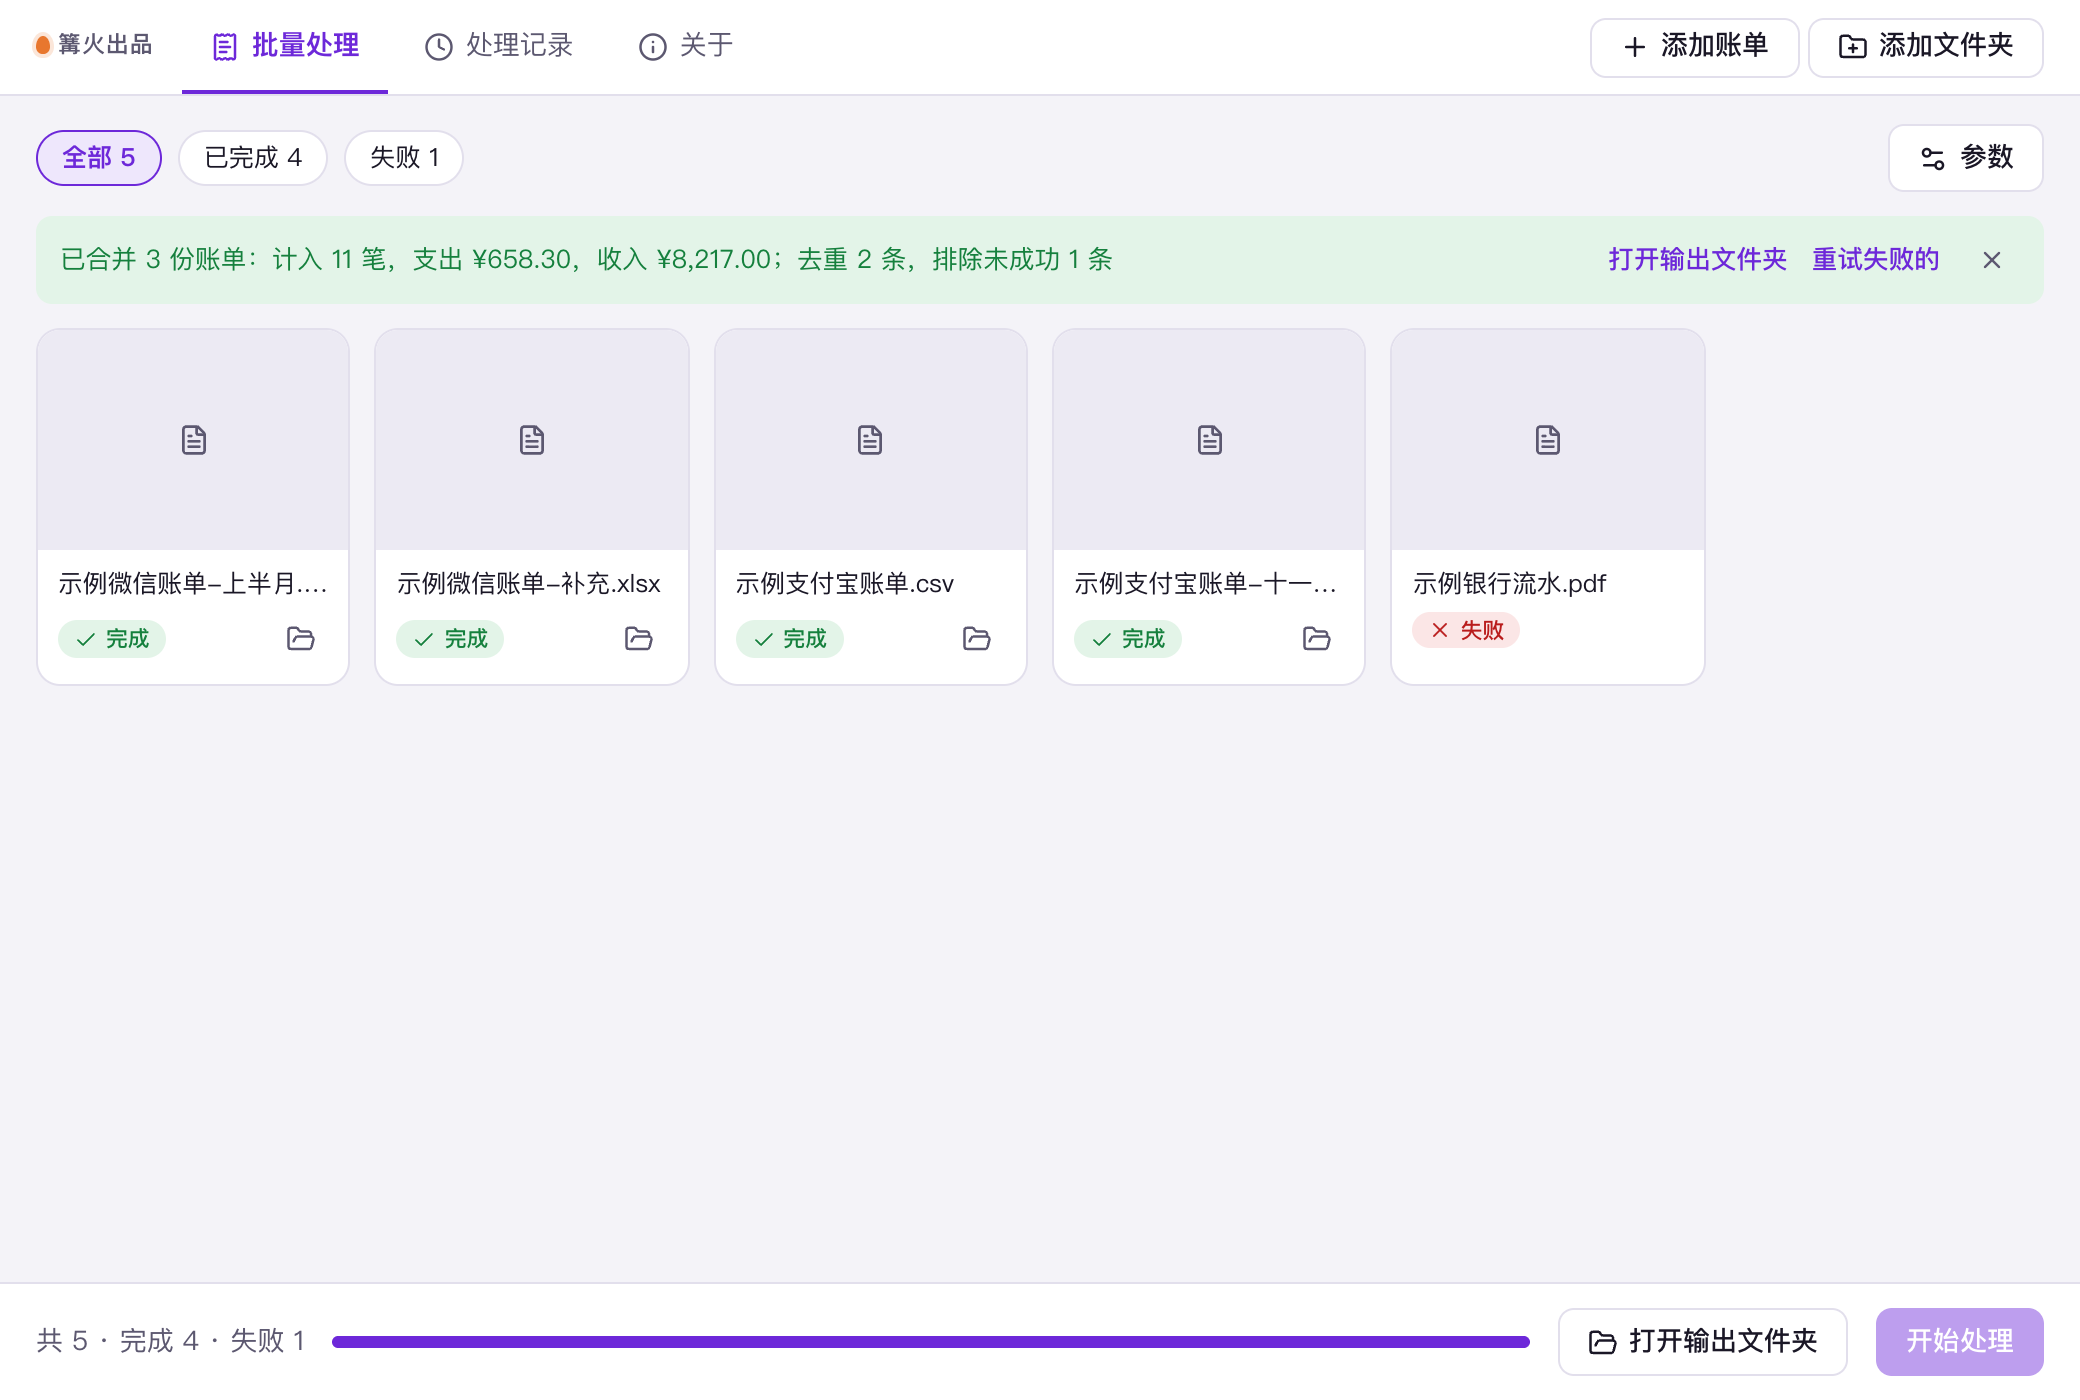
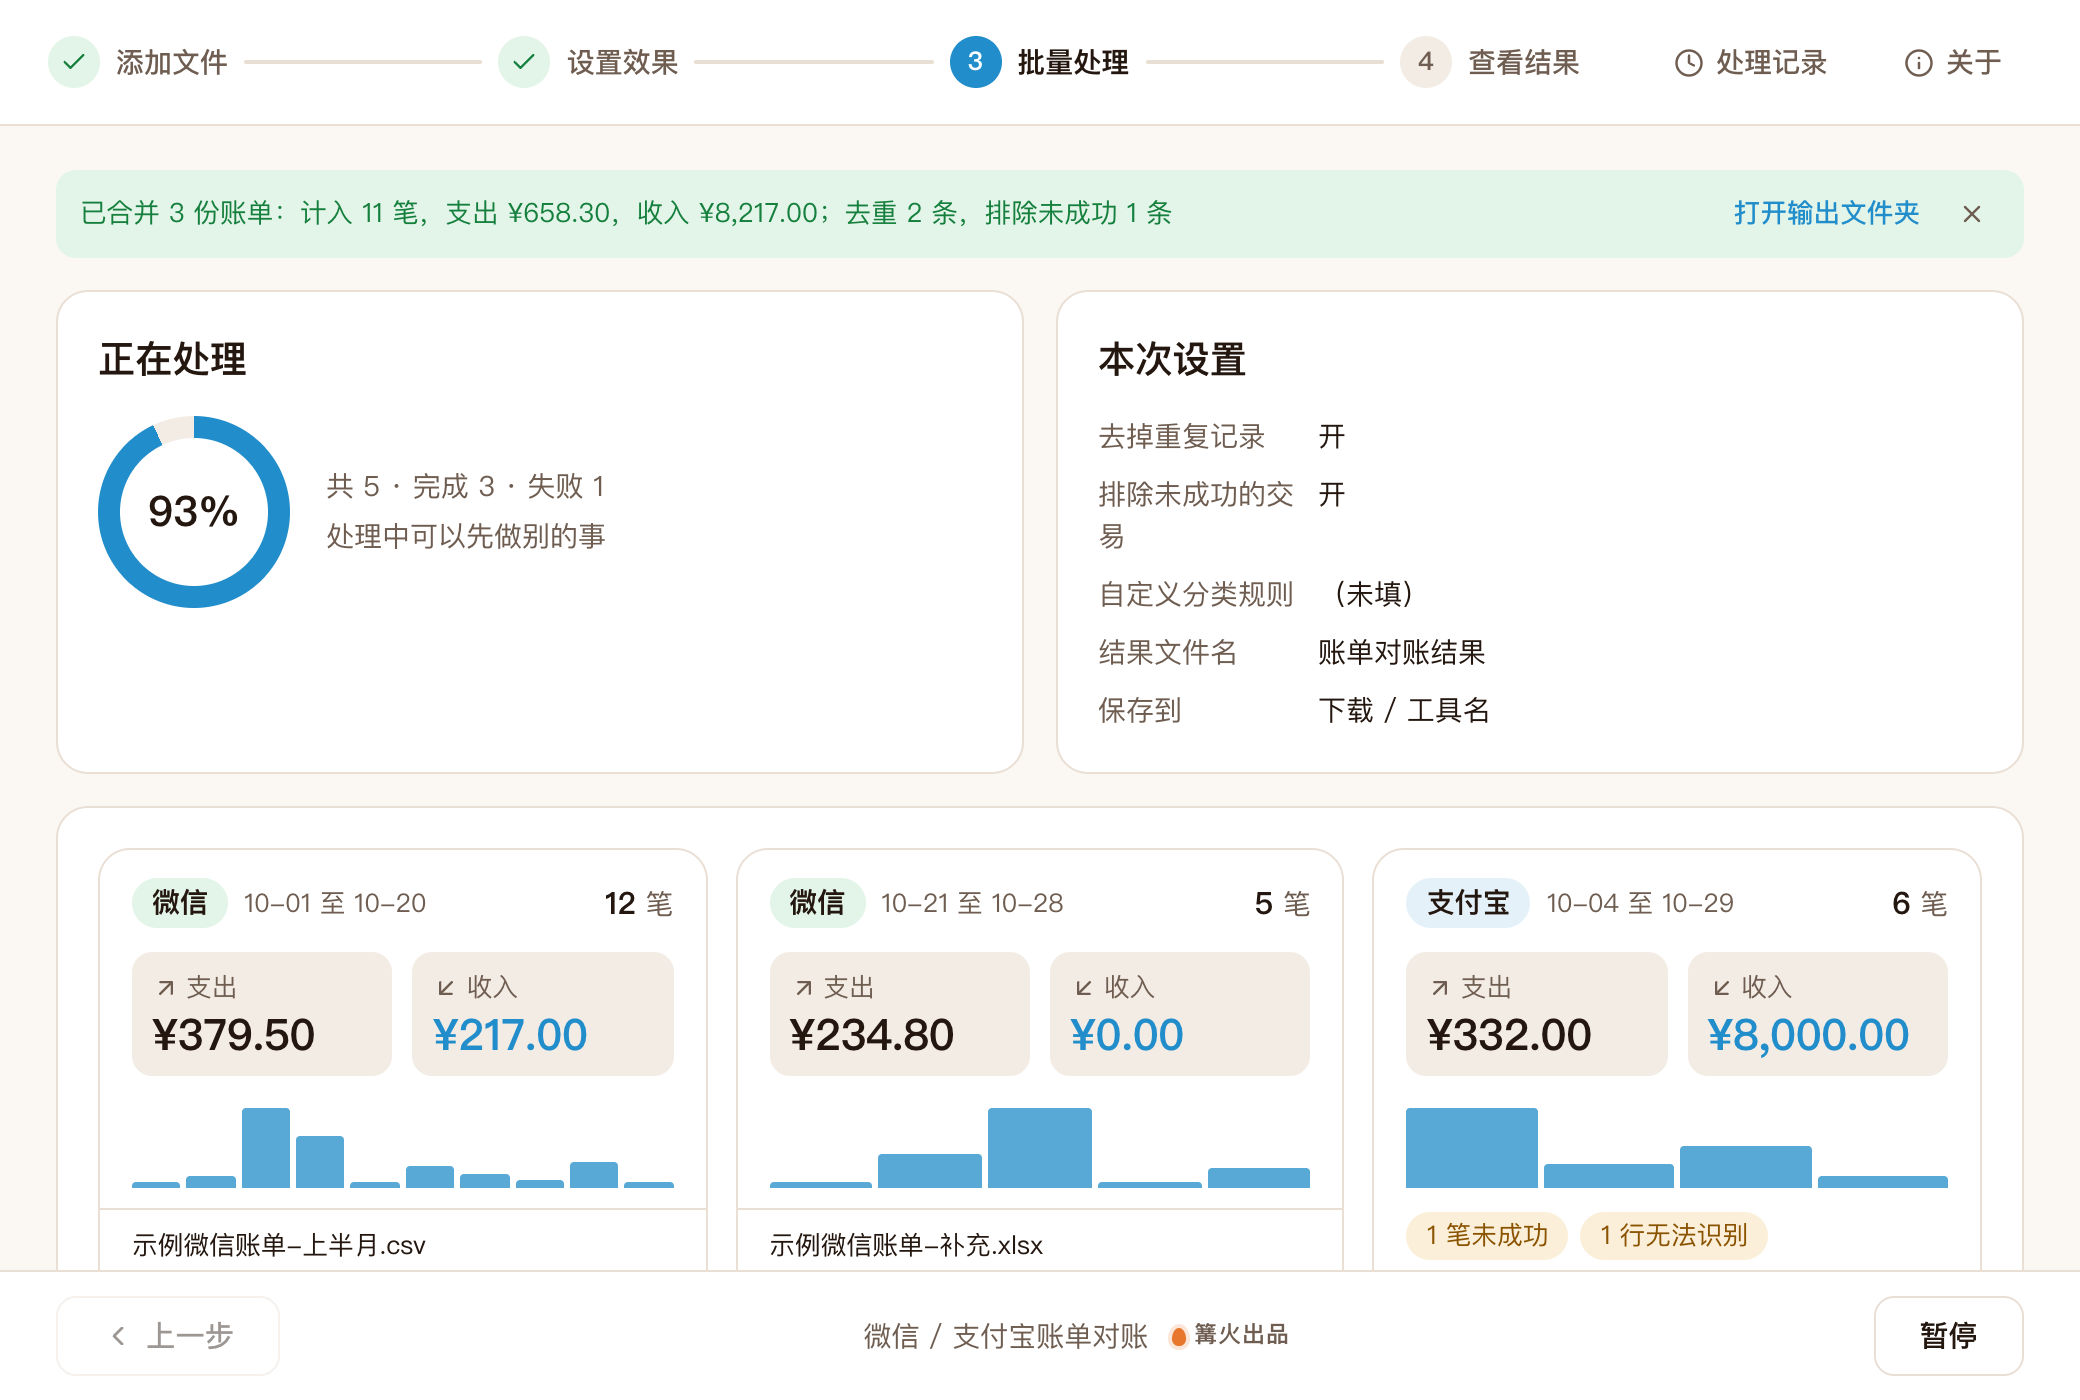
打磨 0.2.0：向导大卡片布局，账单支出收入大字加按日柱状图，空状态示意图，界面全中文

diff --git a/src/tool/tool.css b/src/tool/tool.css
@@ -1,0 +1,52 @@
+/* 微信 / 支付宝账单对账：布局 c（向导步骤 + 大卡片）。只用 kit.css 的变量，类名以 bl- 开头。
+   焦点：每份账单的支出、收入大字，以及按日支出柱状图。 */
+
+/* ---- 空状态 ---- */
+.bl-empty { display: flex; flex-direction: column; align-items: center; gap: 10px; padding: 8px 4px 4px; text-align: center; }
+.bl-empty > svg { width: 100%; max-width: 640px; height: auto; }
+.bl-card { fill: var(--surface); stroke: var(--line-strong); stroke-width: 1.4; }
+.bl-card.hot { stroke: var(--primary); }
+.bl-top.wx { fill: var(--ok-soft); }
+.bl-top.ali, .bl-top.hot { fill: var(--primary-soft); }
+.bl-tt { font-size: 11px; font-weight: 700; fill: var(--ink); font-family: var(--font); }
+.bl-ln { fill: var(--line-strong); opacity: .8; }
+.bl-arrow { fill: none; stroke: var(--primary); stroke-width: 2.4; stroke-linecap: round; stroke-linejoin: round; }
+.bl-step { fill: var(--primary-soft); stroke: var(--primary); stroke-width: 1.4; stroke-dasharray: 4 3; }
+.bl-st1 { font-size: 14px; font-weight: 700; fill: var(--ink); font-family: var(--font); }
+.bl-st2 { font-size: 11px; fill: var(--ink); font-family: var(--font); }
+.bl-ct { font-size: 11px; fill: var(--ink); font-family: var(--font); font-variant-numeric: tabular-nums; }
+.bl-track { fill: var(--chip); }
+.bl-fill { fill: var(--primary); }
+.bl-tab { fill: var(--chip); }
+.bl-tab.on { fill: var(--primary-soft); stroke: var(--primary); stroke-width: 1; }
+.bl-tabt { font-size: 10px; fill: var(--muted); font-family: var(--font); }
+.bl-tabt.on { fill: var(--ink); font-weight: 700; }
+.bl-cap { font-size: 11.5px; fill: var(--muted); font-family: var(--font); }
+.bl-title { font-size: 1.3em; font-weight: 700; color: var(--ink); margin-top: 4px; }
+.bl-act { display: inline-flex; align-items: center; gap: 6px; padding: 6px 14px; border-radius: 999px; background: var(--primary-soft); color: var(--ink); font-weight: 600; text-align: left; line-height: 1.4; }
+.bl-act svg { flex: none; color: var(--primary); }
+
+/* ---- 结果卡片 ---- */
+.c-span .k-cards { grid-template-columns: repeat(auto-fill, minmax(270px, 1fr)); gap: 14px; }
+.c-span .k-card-body { padding: 14px 16px 10px; }
+.c-span .k-card-meta { border-top: 1px solid var(--line); padding: 8px 16px 10px; }
+.bl-body { display: grid; gap: 12px; }
+.bl-head { display: flex; align-items: center; gap: 8px; flex-wrap: wrap; }
+.bl-src { padding: 2px 10px; border-radius: 999px; font-weight: 700; }
+.bl-src.wx { background: var(--ok-soft); color: var(--ink); }
+.bl-src.ali { background: var(--primary-soft); color: var(--ink); }
+.bl-range { color: var(--muted); font-size: .92em; }
+.bl-count { margin-left: auto; color: var(--muted); white-space: nowrap; }
+.bl-count b { color: var(--ink); font-size: 1.1em; }
+.bl-money { display: grid; grid-template-columns: 1fr 1fr; gap: 10px; }
+.bl-money > div { display: grid; gap: 2px; padding: 8px 10px; border-radius: var(--radius); background: var(--chip); }
+.bl-money span { display: inline-flex; align-items: center; gap: 3px; color: var(--muted); font-size: .92em; }
+.bl-money b { font-size: 1.55em; font-weight: 800; line-height: 1.15; letter-spacing: -.01em; white-space: nowrap; }
+.bl-money .out b { color: var(--ink); }
+.bl-money .in b { color: var(--primary); }
+.bl-bars { display: flex; align-items: flex-end; gap: 3px; height: 44px; padding-top: 4px; }
+.bl-bars i { flex: 1; min-width: 3px; border-radius: 2px 2px 0 0; background: var(--primary); opacity: .75; transition: height .2s var(--ease); }
+.bl-tags { display: flex; gap: 6px; flex-wrap: wrap; }
+.bl-tags span { padding: 2px 10px; border-radius: 999px; font-size: .92em; }
+.bl-tags .warn { background: var(--warn-soft); color: var(--warn); }
+.bl-sub { color: var(--muted); }

diff --git a/src/tool/Empty.tsx b/src/tool/Empty.tsx
@@ -1,0 +1,56 @@
+// 空状态：画出「微信账单 + 支付宝账单 → 去重、分类 → 一张总表」，数字和分类都是真实感的中文
+import { Upload } from 'lucide-react';
+import './tool.css';
+
+const TABS = ['总览', '分类', '月份', '对方', '明细'];
+
+export function Empty({ hover }: { hover: boolean }) {
+  return (
+    <div className="bl-empty">
+      <svg viewBox="0 0 540 220" role="img" aria-label="微信账单和支付宝账单合并，去掉重复记录，按分类汇总成一张 Excel 总表">
+        <g>
+          <rect x="8" y="14" width="124" height="74" rx="6" className="bl-card wx" />
+          <rect x="8" y="14" width="124" height="20" rx="6" className="bl-top wx" />
+          <text x="20" y="28" className="bl-tt">微信账单</text>
+          {[0, 1, 2].map((i) => <rect key={i} x="20" y={44 + i * 12} width={i === 1 ? 70 : 92} height="5" rx="2.5" className="bl-ln" />)}
+          <rect x="8" y="112" width="124" height="74" rx="6" className="bl-card ali" />
+          <rect x="8" y="112" width="124" height="20" rx="6" className="bl-top ali" />
+          <text x="20" y="126" className="bl-tt">支付宝账单</text>
+          {[0, 1, 2].map((i) => <rect key={i} x="20" y={142 + i * 12} width={i === 2 ? 60 : 92} height="5" rx="2.5" className="bl-ln" />)}
+        </g>
+        <path d="M140 51 H168 V100 H190 M140 149 H168 V112 H190" className="bl-arrow" />
+        <g>
+          <rect x="194" y="62" width="104" height="76" rx="6" className="bl-step" />
+          <text x="246" y="86" textAnchor="middle" className="bl-st1">去掉重复</text>
+          <text x="246" y="104" textAnchor="middle" className="bl-st2">同一笔只留一条</text>
+          <text x="246" y="124" textAnchor="middle" className="bl-st2">自动归入分类</text>
+        </g>
+        <path d="M304 100 H340 M332 92 L342 100 L332 108" className="bl-arrow" />
+        <g>
+          <rect x="350" y="14" width="182" height="172" rx="6" className="bl-card hot" />
+          <rect x="350" y="14" width="182" height="24" rx="6" className="bl-top hot" />
+          <text x="362" y="31" className="bl-tt">账单对账结果.xlsx</text>
+          {[['餐饮', '¥1,286', 84], ['交通', '¥342', 40], ['网购', '¥958', 70], ['住房', '¥3,200', 100]].map(([k, v, w], i) => (
+            <g key={k as string}>
+              <text x="362" y={62 + i * 24} className="bl-ct">{k}</text>
+              <rect x="400" y={52 + i * 24} width="70" height="8" rx="4" className="bl-track" />
+              <rect x="400" y={52 + i * 24} width={(Number(w) / 100) * 70} height="8" rx="4" className="bl-fill" />
+              <text x="520" y={62 + i * 24} textAnchor="end" className="bl-ct">{v}</text>
+            </g>
+          ))}
+          {TABS.map((t, i) => (
+            <g key={t}>
+              <rect x={360 + i * 33} y="160" width="30" height="18" rx="4" className={i === 0 ? 'bl-tab on' : 'bl-tab'} />
+              <text x={375 + i * 33} y="173" textAnchor="middle" className={i === 0 ? 'bl-tabt on' : 'bl-tabt'}>{t}</text>
+            </g>
+          ))}
+        </g>
+        <text x="70" y="208" textAnchor="middle" className="bl-cap">多份账单</text>
+        <text x="246" y="208" textAnchor="middle" className="bl-cap">合并整理</text>
+        <text x="441" y="208" textAnchor="middle" className="bl-cap">一个 Excel，分表汇总</text>
+      </svg>
+      <h2 className="bl-title">{hover ? '松开鼠标，开始添加' : '把导出的账单拖进来'}</h2>
+      <p className="bl-act"><Upload size={15} />微信、支付宝导出的 CSV 或 Excel 账单都行，多份混放也可以</p>
+    </div>
+  );
+}

diff --git a/src/tool/preview.ts b/src/tool/preview.ts
@@ -1,23 +1,34 @@
 // 截图与预览用的示例数据（不会进入正式运行）
 import type { Row } from '../kit/runner';
+import type { Txn } from './core';
 
-const files: [string, number, Row['status'], string?][] = [
-  ['示例微信账单-上半月.csv', 3_200, 'ok', '微信账单 7 笔，支出 ¥379.50，收入 ¥217.00'],
-  ['示例微信账单-补充.xlsx', 9_800, 'ok', '微信账单 4 笔，支出 ¥189.80，收入 ¥0.00'],
-  ['示例支付宝账单.csv', 2_900, 'ok', '支付宝账单 4 笔，支出 ¥218.00，收入 ¥8,000.00'],
+// 示例交易：[日期, 收支, 元, 是否未成功]
+const mk = (source: '微信' | '支付宝', list: [string, '收入' | '支出', number, boolean?][]): { source: string; txns: Txn[]; skipped: number } => ({
+  source,
+  skipped: 0,
+  txns: list.map(([d, dir, y, failed], i) => ({ source, time: `2026-10-${d} 12:00:00`, counterparty: '', item: '', type: '', dir, cents: y * 100, method: '', status: failed ? '交易关闭' : '支付成功', orderId: String(i), note: '', file: '', category: '', failed: !!failed })),
+});
+const wx1 = mk('微信', [['01', '支出', 18], ['02', '支出', 32.5], ['03', '支出', 200], ['05', '收入', 88], ['09', '支出', 129], ['10', '收入', 129], ['12', '支出', 4], ['13', '支出', 56.8], ['15', '支出', 36], ['16', '支出', 22], ['18', '支出', 68], ['20', '支出', 15]]);
+const wx2 = mk('微信', [['21', '支出', 4], ['22', '支出', 56.8], ['24', '支出', 129.9], ['26', '支出', 12], ['28', '支出', 33]]);
+const ali = mk('支付宝', [['04', '支出', 168], ['10', '支出', 39.9, true], ['20', '收入', 8000], ['25', '支出', 50], ['27', '支出', 88], ['29', '支出', 26]]);
+
+const files: [string, number, Row['status'], string?, unknown?][] = [
+  ['示例微信账单-上半月.csv', 3_200, 'ok', '微信账单 12 笔，支出 ¥379.50，收入 ¥217.00', wx1],
+  ['示例微信账单-补充.xlsx', 9_800, 'ok', '微信账单 5 笔，支出 ¥234.80，收入 ¥0.00', wx2],
+  ['示例支付宝账单.csv', 2_900, 'ok', '支付宝账单 6 笔，支出 ¥332.00，收入 ¥8,000.00；1 行无法识别已跳过', { ...ali, skipped: 1 }],
   ['示例支付宝账单-十一月.csv', 3_100, 'run'],
   ['示例银行流水.pdf', 120_000, 'err', '只支持微信、支付宝导出的 .csv 或 .xlsx 账单'],
 ];
 
 export const rows = (state: string): Row[] =>
-  state === 'empty' ? [] : files.map(([name, size, status, text], i) => {
+  state === 'empty' ? [] : files.map(([name, size, status, text, data], i) => {
     const st = state === 'done' && status !== 'err' ? 'ok' : status;
     return {
       item: { id: `p${i}`, name, path: `/示例/${name}`, size },
       status: st,
       progress: st === 'run' ? 0.5 : st === 'ok' ? 1 : 0,
       error: st === 'err' ? text : undefined,
-      result: st === 'ok' ? { summary: text ?? '支付宝账单 3 笔', outputPath: '/示例/输出/账单对账结果.xlsx' } : undefined,
+      result: st === 'ok' ? { summary: text ?? '支付宝账单 3 笔', outputPath: '/示例/输出/账单对账结果.xlsx', data } : undefined,
     };
   });
 

diff --git a/src/tool/Result.tsx b/src/tool/Result.tsx
@@ -1,0 +1,52 @@
+// 单份账单的读取结果：支出、收入用大字显示，下面按日画出支出柱状图；未成功、跳过的行用小标签提醒
+import { ArrowDownLeft, ArrowUpRight } from 'lucide-react';
+import type { InputItem, ItemResult } from '../kit/types';
+import { fmtYuan, type Txn } from './core';
+import './tool.css';
+
+interface Shown { source: string; txns: Txn[]; skipped: number }
+
+/** 说明里已经算好的支出、收入（和处理时的参数一致），取不到再自己算 */
+function money(result: ItemResult, txns: Txn[]) {
+  const m = /支出 (¥[\d,.]+)，收入 (¥[\d,.]+)/.exec(result.summary ?? '');
+  if (m) return { out: m[1], inc: m[2] };
+  const ok = txns.filter((t) => !t.failed);
+  const sum = (d: string) => ok.filter((t) => t.dir === d).reduce((a, t) => a + t.cents, 0);
+  return { out: fmtYuan(sum('支出')), inc: fmtYuan(sum('收入')) };
+}
+
+export function ResultBody({ result }: { item: InputItem; result: ItemResult }) {
+  const d = result.data as Shown | undefined;
+  if (!d?.txns) return <p className="bl-sub">{result.summary}</p>;
+  const { out, inc } = money(result, d.txns);
+  const byDay = new Map<string, number>();
+  for (const t of d.txns) if (t.dir === '支出' && !t.failed) byDay.set(t.time.slice(0, 10), (byDay.get(t.time.slice(0, 10)) ?? 0) + t.cents);
+  const days = [...byDay].sort((a, b) => a[0].localeCompare(b[0])).slice(-31);
+  const max = Math.max(1, ...days.map((x) => x[1]));
+  const failed = d.txns.filter((t) => t.failed).length;
+  const times = d.txns.map((t) => t.time.slice(0, 10)).sort();
+  return (
+    <div className="bl-body">
+      <div className="bl-head">
+        <span className={`bl-src ${d.source === '微信' ? 'wx' : 'ali'}`}>{d.source}</span>
+        <span className="bl-range k-num">{times[0].slice(5)} 至 {times[times.length - 1].slice(5)}</span>
+        <span className="bl-count"><b className="k-num">{d.txns.length}</b> 笔</span>
+      </div>
+      <div className="bl-money">
+        <div className="out"><span><ArrowUpRight size={14} />支出</span><b className="k-num">{out}</b></div>
+        <div className="in"><span><ArrowDownLeft size={14} />收入</span><b className="k-num">{inc}</b></div>
+      </div>
+      {days.length > 0 && (
+        <div className="bl-bars" role="img" aria-label={`按日支出柱状图，共 ${days.length} 天有支出`}>
+          {days.map(([day, c]) => <i key={day} title={`${day}：${fmtYuan(c)}`} style={{ height: `${Math.max(8, (c / max) * 100)}%` }} />)}
+        </div>
+      )}
+      {(failed > 0 || d.skipped > 0) && (
+        <div className="bl-tags">
+          {failed > 0 && <span className="warn">{failed} 笔未成功</span>}
+          {d.skipped > 0 && <span className="warn">{d.skipped} 行无法识别</span>}
+        </div>
+      )}
+    </div>
+  );
+}

diff --git a/src/tool/index.ts b/src/tool/index.ts
@@ -3,6 +3,8 @@ import { ReceiptText } from 'lucide-react';
 import type { BatchTool } from '../kit/types';
 import { baseName, fmtYuan, parseBill, parseRules, reconcile, summarize, type Txn } from './core';
 import { readGrid, writeReport } from './xlsx';
+import { Empty } from './Empty';
+import { ResultBody } from './Result';
 
 interface Data { source: string; txns: Txn[]; skipped: number }
 
@@ -16,6 +18,8 @@ const tool: BatchTool = {
   mode: 'batch',
   resultView: 'list',
   concurrency: 1,
+  Empty,
+  ResultBody,
   accept: { label: '账单', extensions: ['csv', 'xlsx'] },
   params: [
     { key: 'dedupe', label: '去掉重复记录', type: 'toggle', default: true, help: '多份账单的时间范围重叠时，同一笔交易只留一条（按来源、订单号、收支、金额判断）' },

diff --git a/CHANGELOG.md b/CHANGELOG.md
@@ -1,5 +1,11 @@
 # 更新记录
 
+## 0.2.0
+
+- 换成向导步骤加大卡片的布局：每份账单的结果卡片用大字显示支出和收入，并画出按日支出柱状图，未成功和无法识别的行用标签提醒。
+- 新增空状态：用示意图说明「几份账单合并、去重、汇总成一张总表」。
+- 主色改为专属天蓝色；界面文字全部改为中文。
+
 ## 0.1.0
 
 - 首个版本。
